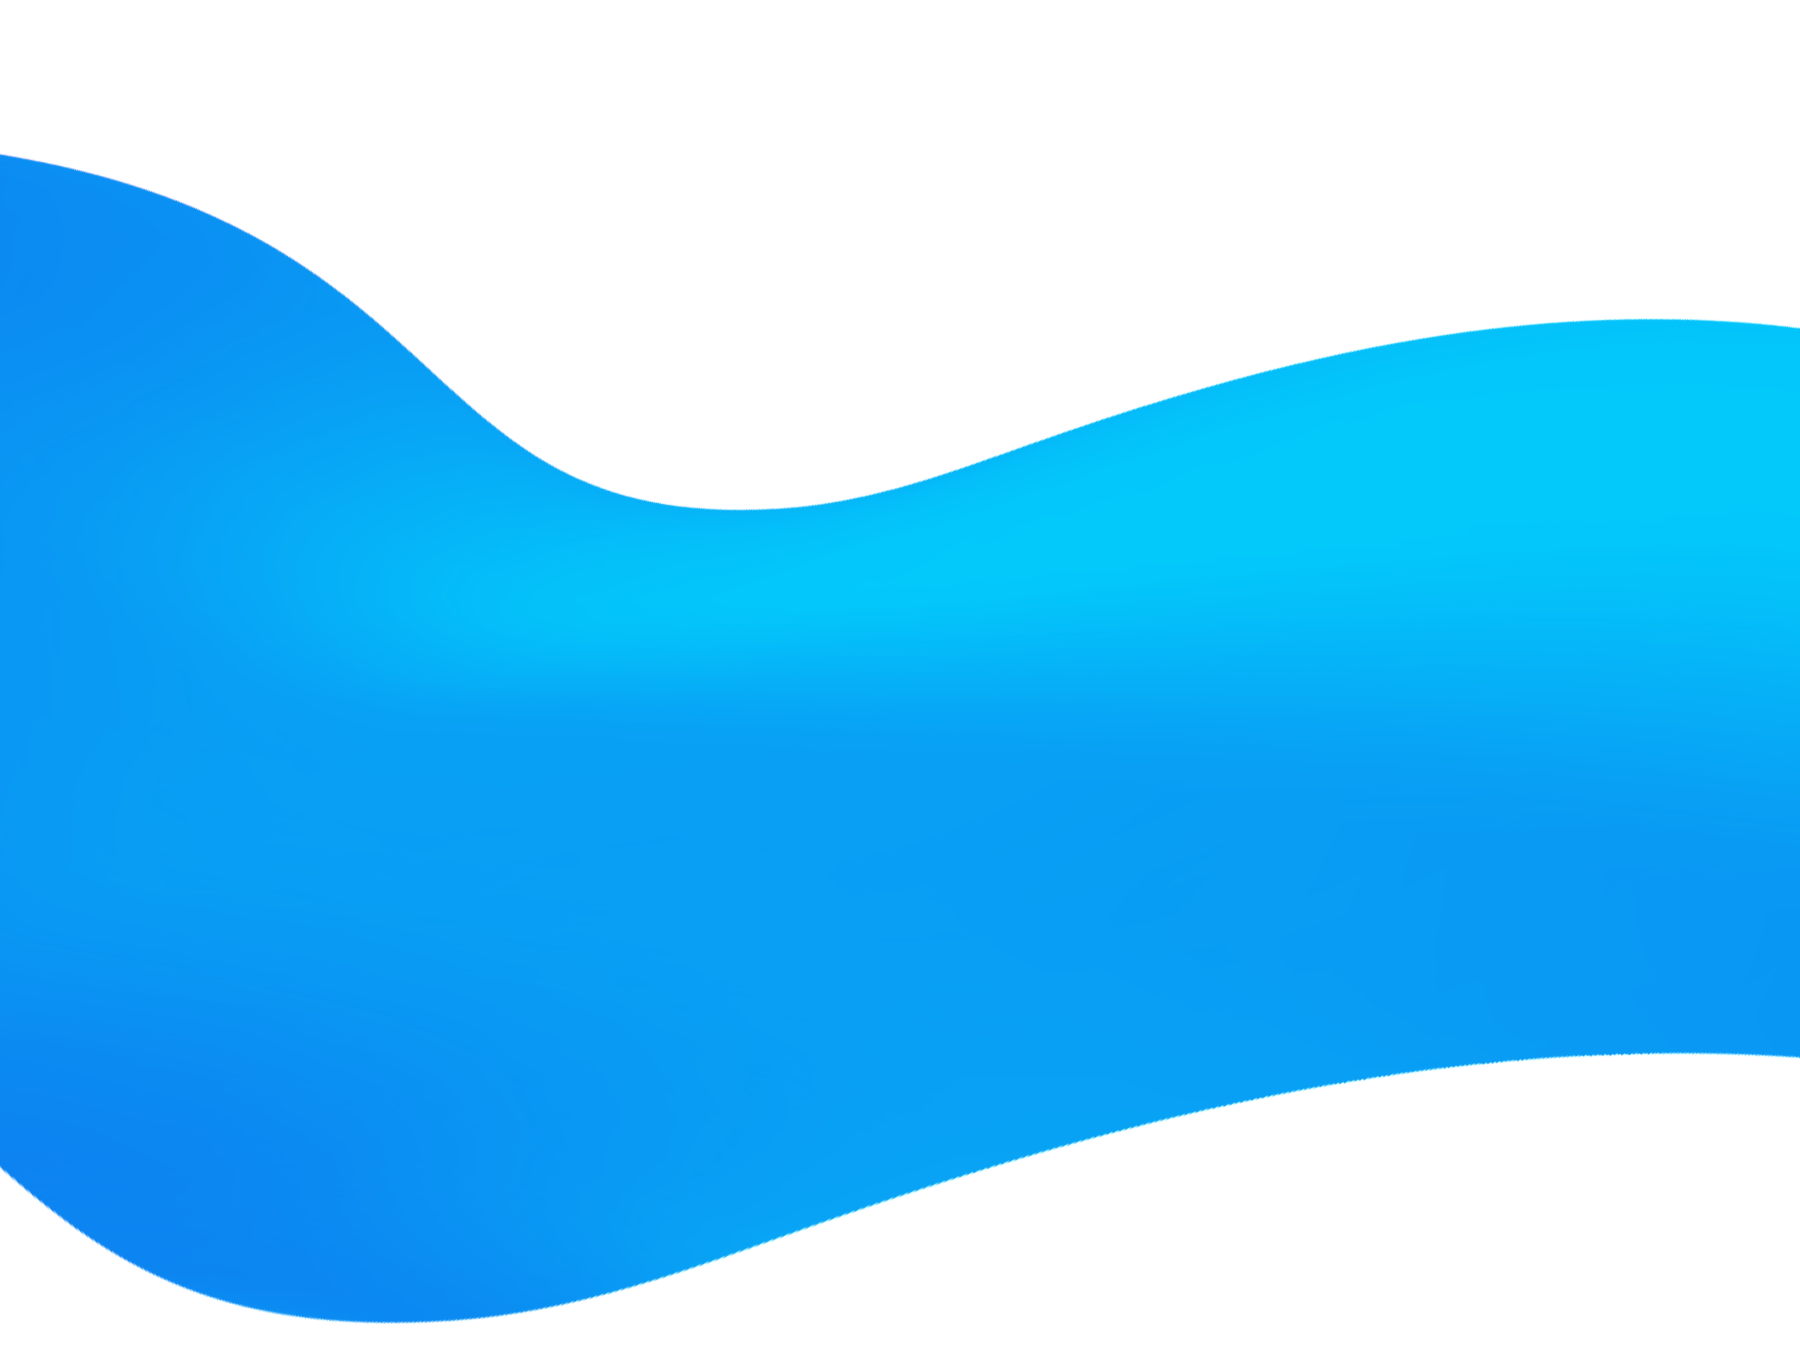
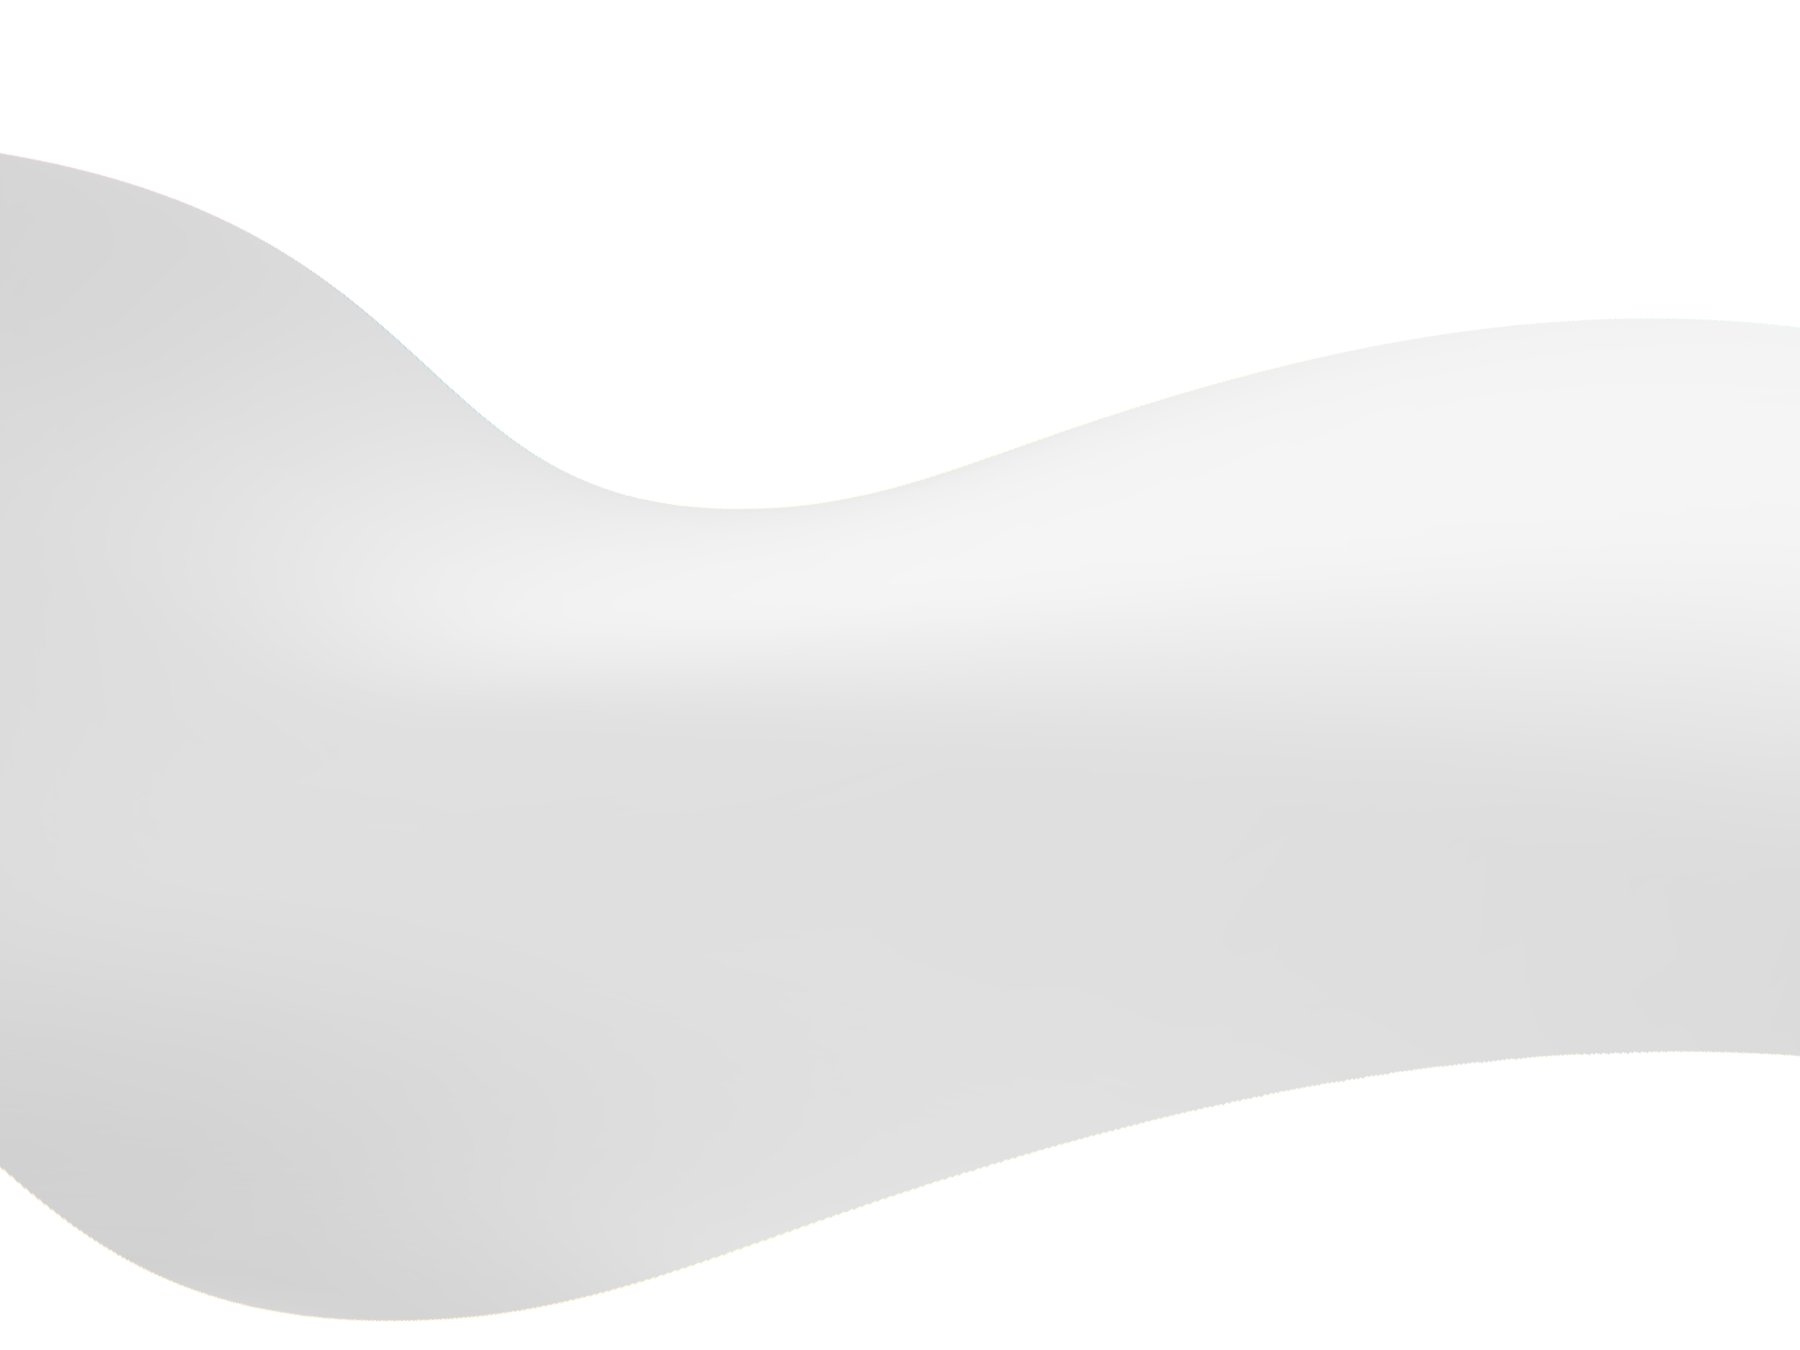
update

diff --git a/prototypes/frontpage.html b/prototypes/frontpage.html
@@ -34,7 +34,7 @@
                 <div id="logo-mehr-mobile">
                     <!--Ausrichtung des Hamburger Buttons am Logo; für die Desktop-Version: #mehr {display:none;} im CSS setzen-->
 
-                    <img id="logo-bg" src="Hintergrund.png">
+                    <img id="logo-bg" src="HintergrundWhite.png">
 
                     <a id="click-logo" href="frontpage.html"><img id="logo" src="logoDayKomprimiert1.png"></a>
 
